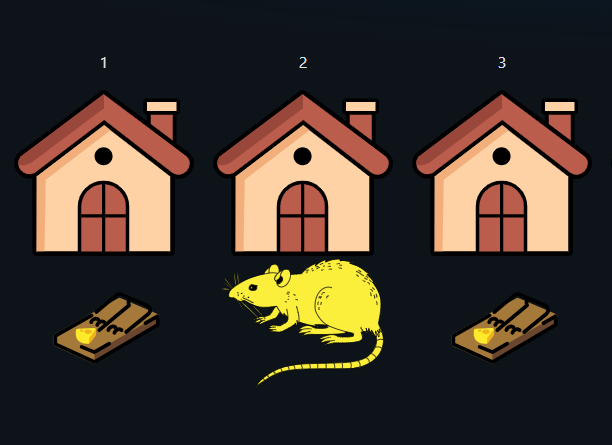
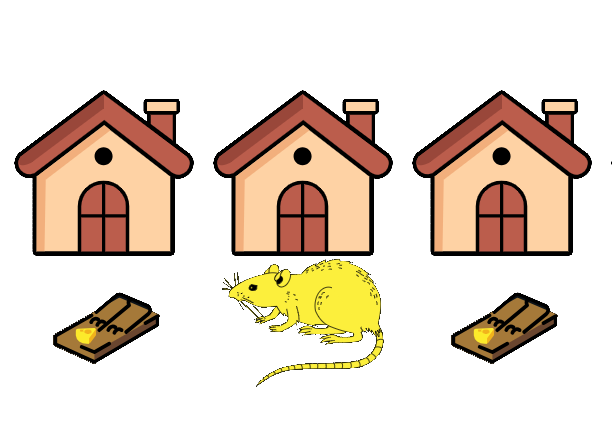
changed images

diff --git a/src/components/common/themePrimitives.js b/src/components/common/themePrimitives.js
@@ -69,152 +69,7 @@ export const red = {
   900: 'hsl(0, 93%, 6%)',
 };
 
-export const getDesignTokens = (mode) => {
-  customShadows[1] =
-    mode === 'dark'
-      ? 'hsla(220, 30%, 5%, 0.7) 0px 4px 16px 0px, hsla(220, 25%, 10%, 0.8) 0px 8px 16px -5px'
-      : 'hsla(220, 30%, 5%, 0.07) 0px 4px 16px 0px, hsla(220, 25%, 10%, 0.07) 0px 8px 16px -5px';
-
-  return {
-    palette: {
-      mode,
-      primary: {
-        light: brand[200],
-        main: brand[400],
-        dark: brand[700],
-        contrastText: brand[50],
-        ...(mode === 'dark' && {
-          contrastText: brand[50],
-          light: brand[300],
-          main: brand[400],
-          dark: brand[700],
-        }),
-      },
-      info: {
-        light: brand[100],
-        main: brand[300],
-        dark: brand[600],
-        contrastText: gray[50],
-        ...(mode === 'dark' && {
-          contrastText: brand[300],
-          light: brand[500],
-          main: brand[700],
-          dark: brand[900],
-        }),
-      },
-      warning: {
-        light: orange[300],
-        main: orange[400],
-        dark: orange[800],
-        ...(mode === 'dark' && {
-          light: orange[400],
-          main: orange[500],
-          dark: orange[700],
-        }),
-      },
-      error: {
-        light: red[300],
-        main: red[400],
-        dark: red[800],
-        ...(mode === 'dark' && {
-          light: red[400],
-          main: red[500],
-          dark: red[700],
-        }),
-      },
-      success: {
-        light: green[300],
-        main: green[400],
-        dark: green[800],
-        ...(mode === 'dark' && {
-          light: green[400],
-          main: green[500],
-          dark: green[700],
-        }),
-      },
-      grey: {
-        ...gray,
-      },
-      divider: mode === 'dark' ? alpha(gray[700], 0.6) : alpha(gray[300], 0.4),
-      background: {
-        default: 'hsl(0, 0%, 99%)',
-        paper: 'hsl(220, 35%, 97%)',
-        ...(mode === 'dark' && { default: gray[900], paper: 'hsl(220, 30%, 7%)' }),
-      },
-      text: {
-        primary: gray[800],
-        secondary: gray[600],
-        warning: orange[400],
-        ...(mode === 'dark' && {
-          primary: 'hsl(0, 0%, 100%)',
-          secondary: gray[400],
-        }),
-      },
-      action: {
-        hover: alpha(gray[200], 0.2),
-        selected: `${alpha(gray[200], 0.3)}`,
-        ...(mode === 'dark' && {
-          hover: alpha(gray[600], 0.2),
-          selected: alpha(gray[600], 0.3),
-        }),
-      },
-    },
-    typography: {
-      fontFamily: 'Inter, sans-serif',
-      h1: {
-        fontSize: defaultTheme.typography.pxToRem(48),
-        fontWeight: 600,
-        lineHeight: 1.2,
-        letterSpacing: -0.5,
-      },
-      h2: {
-        fontSize: defaultTheme.typography.pxToRem(36),
-        fontWeight: 600,
-        lineHeight: 1.2,
-      },
-      h3: {
-        fontSize: defaultTheme.typography.pxToRem(30),
-        lineHeight: 1.2,
-      },
-      h4: {
-        fontSize: defaultTheme.typography.pxToRem(24),
-        fontWeight: 600,
-        lineHeight: 1.5,
-      },
-      h5: {
-        fontSize: defaultTheme.typography.pxToRem(20),
-        fontWeight: 600,
-      },
-      h6: {
-        fontSize: defaultTheme.typography.pxToRem(18),
-        fontWeight: 600,
-      },
-      subtitle1: {
-        fontSize: defaultTheme.typography.pxToRem(18),
-      },
-      subtitle2: {
-        fontSize: defaultTheme.typography.pxToRem(14),
-        fontWeight: 500,
-      },
-      body1: {
-        fontSize: defaultTheme.typography.pxToRem(14),
-      },
-      body2: {
-        fontSize: defaultTheme.typography.pxToRem(14),
-        fontWeight: 400,
-      },
-      caption: {
-        fontSize: defaultTheme.typography.pxToRem(12),
-        fontWeight: 400,
-      },
-    },
-    shape: {
-      borderRadius: 8,
-    },
-    shadows: customShadows,
-  };
-};
-
+// TODO: fix light color scheme
 export const colorSchemes = {
   light: {
     palette: {

diff --git a/src/components/intro/PuzzleCard.jsx b/src/components/intro/PuzzleCard.jsx
@@ -18,6 +18,7 @@ function PuzzleCard({puzzleImage, puzzleNumber, puzzleName, puzzleDescription, p
     padding: 0,
     height: '100%',
     backgroundColor: (theme.vars || theme).palette.background.paper,
+    boxShadow: (theme.vars || theme).shadows[1],
     '&:hover': {
       backgroundColor: 'transparent',
       cursor: 'pointer',
@@ -37,7 +38,7 @@ function PuzzleCard({puzzleImage, puzzleNumber, puzzleName, puzzleDescription, p
     paddingTop: 32,
     flexGrow: 1,
     backgroundImage:
-				"radial-gradient(ellipse 80% 50% at 50% -15%, hsl(210, 100%, 16%), hsla(208, 100.00%, 3.70%, 0.64))",
+				"radial-gradient(ellipse 55% 55% at 50% -5%, hsl(210, 100%, 16%), hsla(208, 100.00%, 3.70%, 0.64))",
     height: "100%",
     '&:last-child': {
         paddingBottom: 16,
@@ -63,6 +64,7 @@ function PuzzleCard({puzzleImage, puzzleNumber, puzzleName, puzzleDescription, p
               borderBottom: '1px solid',
               borderColor: 'divider',
               height: "100%",
+              backgroundImage: "radial-gradient(ellipse 55% 55% at 50% 50%, hsla(210, 68%, 11%, 1.00), hsla(208, 100.00%, 3.70%, 0.64))"
           }}
       />
       <SyledCardContent>

diff --git a/src/components/intro/IntroductionPage.jsx b/src/components/intro/IntroductionPage.jsx
@@ -4,7 +4,7 @@ import { useTheme } from '@mui/material/styles';
 import RootBackground from "../common/RootBackground.jsx";
 import Chip from '@mui/material/Chip';
 import ratRiddleThumbnail from '/src/assets/ratRiddleThumbnail.png'
-import horseRiddleThumbnail from '/src/assets/horseRiddleThumbnail.jpg'
+import horseRiddleThumbnail from '/src/assets/horseRiddleThumbnail.png'
 import roosterRiddleThumbnail from '/src/assets/roosterRiddleThumbnail.png'
 import mysteryLetter from '/src/assets/mysteryLetter.jpg'
 import PuzzleCard from './PuzzleCard';
@@ -14,7 +14,6 @@ import Grid from '@mui/material/Grid';
 import Box from "@mui/material/Box";
 import TopBar from '/src/components/common/TopBar.jsx';
 
-// TODO: standardize backgrounds and change horse riddle thumbnail
 function IntroductionPage() {
 
   const theme = useTheme();

diff --git a/src/components/common/TopBar.jsx b/src/components/common/TopBar.jsx
@@ -24,7 +24,7 @@ const [menuDrawerOpen, setMenuDrawerOpen] = useState(false);
     border: '1px solid',
     borderColor: (theme.vars || theme).palette.divider,
     backgroundColor: theme.vars
-      ? `rgba(${theme.vars.palette.background.defaultChannel} / 0.4)`
+      ? `rgba(${theme.vars.palette.background.defaultChannel} / 0.45)`
       : alpha(theme.palette.background.default, 0.4),
     boxShadow: (theme.vars || theme).shadows[1],
     padding: '8px 12px',

diff --git a/src/components/common/RootBackground.jsx b/src/components/common/RootBackground.jsx
@@ -10,7 +10,7 @@ const RootBackground = ({ children }) => (
 			width: "100vw",
 			overflow: "auto",
 			backgroundImage:
-				"radial-gradient(ellipse 80% 50% at 50% -15%, hsl(210, 100%, 16%), hsla(208, 100.00%, 3.70%, 0.64))",
+				"radial-gradient(ellipse 80% 50% at 50% -5%, hsla(210, 98%, 19%, 1.00), hsla(213, 38%, 6%, 1.00))",
 		}}
 	>
 		{children}
